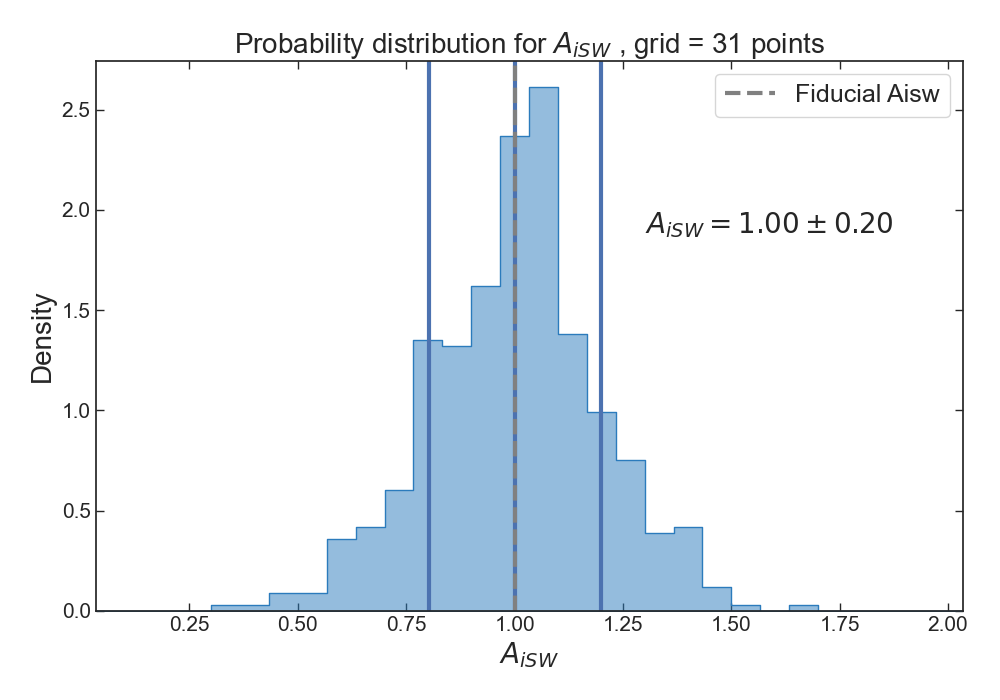
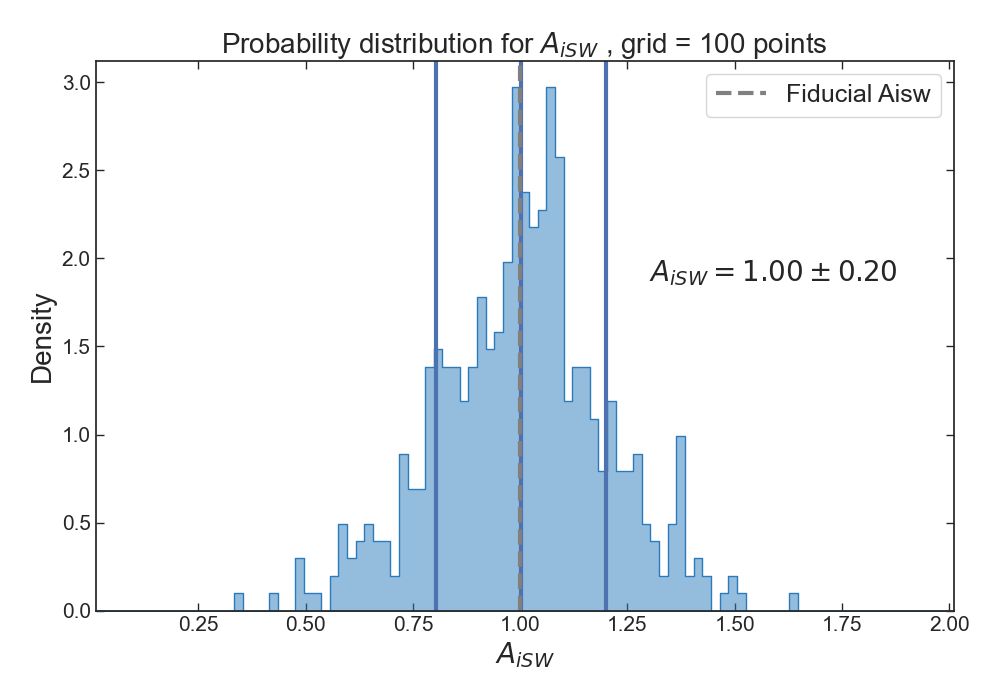
Add likelihood in Aisw distr for thesis

diff --git a/src/likelihood_Aisw_tesi.py b/src/likelihood_Aisw_tesi.py
@@ -3,6 +3,8 @@ import matplotlib.pyplot as plt
 import likelihood_analysis_module as liklh
 from scipy.stats import chi2, mode
 import cython_mylibc as pippo
+from scipy.interpolate import RectBivariateSpline, interp1d
+
 import seaborn as sns
 sns.set()
 sns.set(style = 'white')
@@ -39,7 +41,7 @@ plt.rcParams['font.size'] = 20
 plt.rcParams['lines.linewidth']  = 3.
 
 
-Aisw=np.linspace(0.0,2.,31)
+Aisw=np.linspace(0.0,2.,100)#np.linspace(0.0,2.,31)
 jmax = 12
 lmax = 782
 
@@ -104,12 +106,13 @@ textstr = '\n'.join((
     ))
 
 
-ax.text(1.3,1.5, textstr, 
+ax.text(1.37,0.02, textstr, 
     verticalalignment='top')#, bbox=props)
 binwidth = (Aisw[-1]-Aisw[0])/(len(Aisw)-1)
 binrange = [Aisw[0]+binwidth/2, Aisw[-1]+binwidth/2]
 
-sns.histplot(posterior_distr, stat='density',binwidth=binwidth,binrange=binrange,element='step',fill=True,alpha=0.5 ,color='#2b7bbc', ax=ax)
+sns.lineplot(x=Aisw, y=lik)
+sns.histplot(posterior_distr, stat='probability',binwidth=binwidth,binrange=binrange,element='step',fill=True,alpha=0.5 ,color='#2b7bbc', ax=ax)
 
 ax.set_xlim(binrange[0], binrange[1])
 ax.axvline(percentile[0],color='b')
@@ -121,8 +124,8 @@ ax.axvline(Aisw[index], color = 'b', linestyle='-')
 ax.axvline(1.,color ='grey',linestyle='--', label = 'Fiducial Aisw')
 plt.legend(loc='best')
 plt.tight_layout()
-plt.savefig('plot_tesi/Parameter_estimation/' +filename +'.png')
-plt.savefig('plot_tesi/Parameter_estimation/' +filename +'.pdf')
+plt.savefig('plot_tesi/Parameter_estimation/' +filename +'_100grid_like.png')
+#plt.savefig('plot_tesi/Parameter_estimation/' +filename +'.pdf')
 
 ################################################################################
 ############################## ALRO PLOT #######################################
